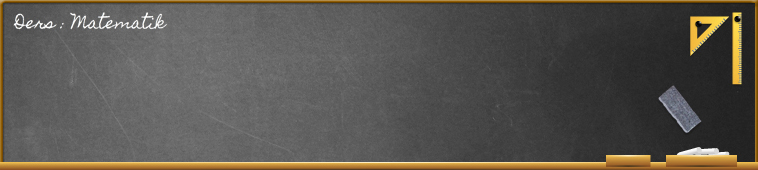
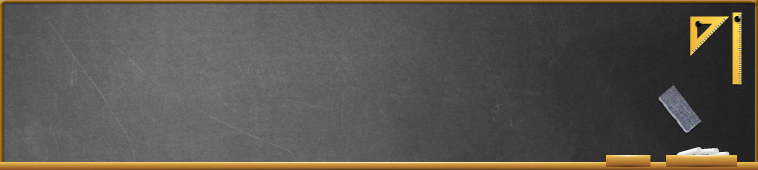
board changed and bugs fixed

Changed region(s): [[0.0, 0.0882, 0.2427, 0.1765]]

diff --git a/app/assets/javascripts/animations/zihinden_carpma_islemi.js b/app/assets/javascripts/animations/zihinden_carpma_islemi.js
@@ -4,9 +4,11 @@ function __Styles(){
 		fillColor:new RgbColor(1,1,1,0.9),
 		font:"'Homemade Apple', cursive"
 	}
+	interactionTextStyle = {
+		fontSize:16,
+		fillColor:new RgbColor(0,0,0),
+	}
 }
-
-
 var Animation = {
 	images:[
 		{
@@ -16,58 +18,6 @@ var Animation = {
 	],
 	init:function(container){
 			$('head').append("<link href='http://fonts.googleapis.com/css?family=Homemade+Apple' rel='stylesheet' type='text/css'>");
-			function textAnimate(point,content,style,animateStyle,delay,callback){
-				var pT1 = new PointText(point);
-				pT1.content = content;
-				pT1.set_style(animationTextStyle);
-				pT1.set_style(style);
-				pT1.animate({
-					style:animateStyle,
-					duration:1000,
-					delay:delay,
-					callback:callback,
-					animationType:'easeInEaseOut'
-				});
-				return pT1;
-			};
-			function multiply(point,delay,zero){
-				var z = zero.length * animationTextStyle.fontSize * 0.5;
-				textAnimate(point,				'4569',	{opacity:0},{opacity:1},100+delay);
-				textAnimate(point.add(70,0)	 ,' × 1',	{opacity:0},{opacity:1},600+delay);
-				textAnimate(point.add(132+z,0)  ,	  '=',	{opacity:0},{opacity:1},600+delay);
-				textAnimate(point.add(112,0)	,   zero,	{opacity:0},{opacity:1},600+delay,
-					function(){
-						this.animate({
-						style:{opacity:0},
-						duration:500,
-						callback:function(){
-								this.animate({
-									style:{opacity:1,fillColor:new RgbColor(1,0,0,0.9)},
-									duration:500,
-									delay:500,
-									callback:function(){
-										this.animate({
-											style:{fillColor:animationTextStyle.fillColor},
-											duration:500,
-											delay:500
-										})
-									}								
-								})
-							}
-						});
-					}
-				)
-				textAnimate(point.add(150+z,0),'4569',{opacity:0},{opacity:1},2000+delay);
-				textAnimate(point.add(102+z,0),zero,{opacity:0},{opacity:1,position:point.add(220+z,0),fillColor:new RgbColor(1,0,0)},3000+delay,
-					function(){
-						this.animate({
-							style:{fillColor:animationTextStyle.fillColor},
-							duration:500,
-						});
-					}
-				);
-
-			};
 			Animation.container = container;
 			var w=$(container).width(), h=$(container).height();
 			var board = new Raster('board');
@@ -75,14 +25,11 @@ var Animation = {
 			var p1 = new Point(200.5,50.5);
 			var p2 = new Point(200.5,100.5);
 			var p3 = new Point(200.5,150.5);
-			multiply(p1,100,'0');
-			multiply(p2,4000,'00');
-			multiply(p3,8000,'000');
-			
-			
+			multiply(p1,100,'0',4519,1,animationTextStyle);
+			multiply(p2,4000,'00',4519,1,animationTextStyle);
+			multiply(p3,8000,'000',4569,1,animationTextStyle);
 		}
 }
-
 var Interaction = {
 	getFramework:function(){
 			return 'paper';
@@ -117,7 +64,7 @@ var Interaction = {
 					letterSpacing:'1px',
 					textAlign:'right'
 				})
-				.html('<span id="factor1"></span>&nbsp;x&nbsp;<span id="factor2"></span>&nbsp;=&nbsp;')
+				.html('<span id="factor1"></span>&nbsp;×&nbsp;<span id="factor2"></span>&nbsp;=&nbsp;')
 				.append(Interaction.input);
 			Interaction.questionDiv = div;
 			Interaction.factor1Span = $('span#factor1',div).get(0);
@@ -160,32 +107,72 @@ var Interaction = {
 			Interaction.setStatus('Yanlış cevap, doğrusu ' +  Interaction.factor1 * Interaction.factor2 + ' olacaktı',false);
 			Interaction.solutionDiv = $(Interaction.questionDiv).clone().insertAfter(Interaction.questionDiv);
 			var zeros = $('#factor2',Interaction.questionDiv).html();
-			zeros = '<span class="zero">'+zeros.substring(1,zeros.length)+'</span>';
-			var html = "" + $(Interaction.solutionDiv).html();
-			html = html.substring(0,html.indexOf('<input')) + Interaction.factor1 + zeros;
-			$(Interaction.solutionDiv)
-				.html(html)
-				.append('<span id="result"></span>')
-				.css({
-					top:$(Interaction.solutionDiv).position().top+60
-				});
-			$('#factor2',Interaction.solutionDiv)
-				.html(1+zeros )
-			$('#factor2 .zero',Interaction.solutionDiv)
-				.css({color:'#000'})
-				.animate(
-					{color:'#f00'},
-					1000
-				);
-			$('.zero',Interaction.solutionDiv)
-				.css({color:'#000'})
-				.delay(500)
-				.animate(
-					{color:'#f00'},
-					1000,
-					function(){
-						Interaction.pause = false;
-					}
-				);
+			zeros = zeros.substring(1,zeros.length); 
+			console.log(zeros)
+			multiply(new Point(160,200),10,zeros,Interaction.factor1,(""+Interaction.factor2).substring(0,1),interactionTextStyle);
 		},
 }
+function textAnimate(point,content,style,animateStyle,delay,textStyle,callback){
+	var pT1 = new PointText(point);
+	pT1.content = content;
+	pT1.set_style(textStyle);
+	pT1.set_style(style);
+	pT1.animate({
+		style:animateStyle,
+		duration:1000,
+		delay:delay,
+		callback:callback,
+		animationType:'easeInEaseOut'
+	});
+	return pT1;
+};
+function multiply(point,delay,zero,factor1,factor2,textStyle){ 
+	var f = textStyle.fontSize*16/22; //fontSize
+	var z = zero.length * f;
+	var L = 0;//length
+	var C = 0;//character count
+	var t1 = textAnimate(point,						factor1,	{opacity:0},{opacity:1},100+delay,textStyle);
+	var rect = new Path.Rectangle(t1.bounds);
+	rect.set_style({strokeColor:'#fff',strokeWidth:2});
+	L += t1.getWidth();
+	var t2 = textAnimate(point.add(L,0)	 ,	 ' × '+factor2,	{opacity:0},{opacity:1},600+delay,textStyle);
+	L += t2.getWidth();
+	var t3 = textAnimate(point.add(L,0)	 ,   		  zero,	{opacity:0},{opacity:1},600+delay,textStyle,
+		function(){
+			this.animate({
+			style:{opacity:0},
+			duration:500,
+			callback:function(){
+					this.animate({
+						style:{opacity:1,fillColor:new RgbColor(1,0,0,0.9)},
+						duration:500,
+						delay:1500,
+						callback:function(){
+							this.animate({
+								style:{fillColor:textStyle.fillColor},
+								duration:500,
+								delay:500
+							});
+						}								
+					});
+				}
+			});
+		}
+	);
+	L += t3.getWidth();
+	var t4 = textAnimate(point.add(L,0),		 	   ' = ',	{opacity:0},{opacity:1},600+delay,textStyle);
+	L += t4.getWidth();
+	var t5 = textAnimate(point.add(L,0),factor1*factor2,{opacity:0},{opacity:1},2000+delay,textStyle);
+	L += t5.getWidth();
+	var t6 = textAnimate(t4.position,zero,{opacity:0},{opacity:1,position:point.add(L,0),fillColor:new RgbColor(1,0,0)},4000+delay,textStyle,
+		function(){
+			this.animate({
+				style:{fillColor:textStyle.fillColor},
+				duration:500,
+			});
+		}
+	);
+};
+
+
+

diff --git a/app/assets/javascripts/animations/kisa_yoldan_carpma_islemi.js b/app/assets/javascripts/animations/kisa_yoldan_carpma_islemi.js
@@ -259,24 +259,35 @@ var Interaction = {
 			var zeros = $(Interaction.factor2Span).html();
 			zeros = '<span class="zero">'+zeros.substring(1,zeros.length)+'</span>';
 			var html = "" + $(Interaction.solutionDiv).html();
-			html = html.substring(0,html.indexOf('<input')) + (Interaction.factor1*Interaction.factor2Span.innerHTML.substring(0,1)) + zeros;
+			html = html.substring(0,html.indexOf('<input')) +
+					'<span id="result">' +
+				   (Interaction.factor1*parseInt(Interaction.factor2Span.innerHTML.substring(0,1),10)) + zeros + 
+				   '</span>';
+			
 			$(Interaction.solutionDiv)
 				.html(html)
-				.append('<span id="result"></span>')
 				.css({
 					top:$(Interaction.solutionDiv).position().top+60
 				});
+			$('#result',Interaction.solutionDiv)
+				.css({opacity:0})
+				.delay(2000)
+				.animate({opacity:1},1000)
 			$('#factor2',Interaction.solutionDiv)
 				.html(Interaction.factor2Span.innerHTML.substring(0,1)+zeros )
+				.css({opacity:0}) 
+				.delay(1000)
+				.animate({opacity:1},1000)
 			$('#factor2 .zero',Interaction.solutionDiv)
 				.css({color:'#000'})
+				.delay(3000)
 				.animate(
 					{color:'#f00'},
 					1000
 				);
 			$('.zero',Interaction.solutionDiv)
 				.css({color:'#000'})
-				.delay(500)
+				.delay(3500)
 				.animate(
 					{color:'#f00'},
 					1000,

diff --git a/app/assets/javascripts/animations/kisa_yoldan_bolme_islemi.js b/app/assets/javascripts/animations/kisa_yoldan_bolme_islemi.js
@@ -1,10 +1,12 @@
+
 function __Styles(){
 	animationDivisionStyle = {
-		width:'130px',
+		width:'160px',
 		position:'absolute',
-		top:'55px',
+		top:'30px',
 		left:'60px',
-		fontSize:'23px',
+		fontSize:'28px',
+		fontWeight:700,
 		color:'#fff',
 		fontFamily:"'Homemade Apple', cursive",
 		opacity:0
@@ -66,7 +68,7 @@ var Animation = {
 			$(container).append(div2);
 			$(div2)
 				.css(animationDivisionStyle)
-				.css({ left:'260px', width:'160px'})
+				.css({ left:'260px', width:'190px'})
 				.delay(7000)
 				.animate({opacity:0.9},1000);
 			Animation.division2 = new LongDivision(4581,9,div2);
@@ -106,7 +108,7 @@ var Animation = {
 			$(container).append(div3);
 			$(div3)
 				.css(animationDivisionStyle)
-				.css({ left:'460px', width:'190px'})
+				.css({ left:'460px', width:'220px'})
 				.delay(11000)
 				.animate({opacity:0.9},1000);
 			Animation.division3 = new LongDivision(4581,9,div3);
@@ -169,7 +171,7 @@ var Interaction = {
 					position:'absolute',
 					top:'50px',
 					left:'100px',
-					width:'250px',
+					width:'260px',
 					height:'80px',
 					fontSize:'28px'
 				});

diff --git a/app/assets/javascripts/animations/zihinden_toplama_islemi.js b/app/assets/javascripts/animations/zihinden_toplama_islemi.js
@@ -25,6 +25,7 @@ var Animation = {
 					fontSize:'32px',
 					color:'#fff',
 					textAlign:'right',
+					fontWeight:'700',
 					lineHeight:'30px',
 					fontFamily:"'Homemade Apple', cursive",
 					opacity:0.9
